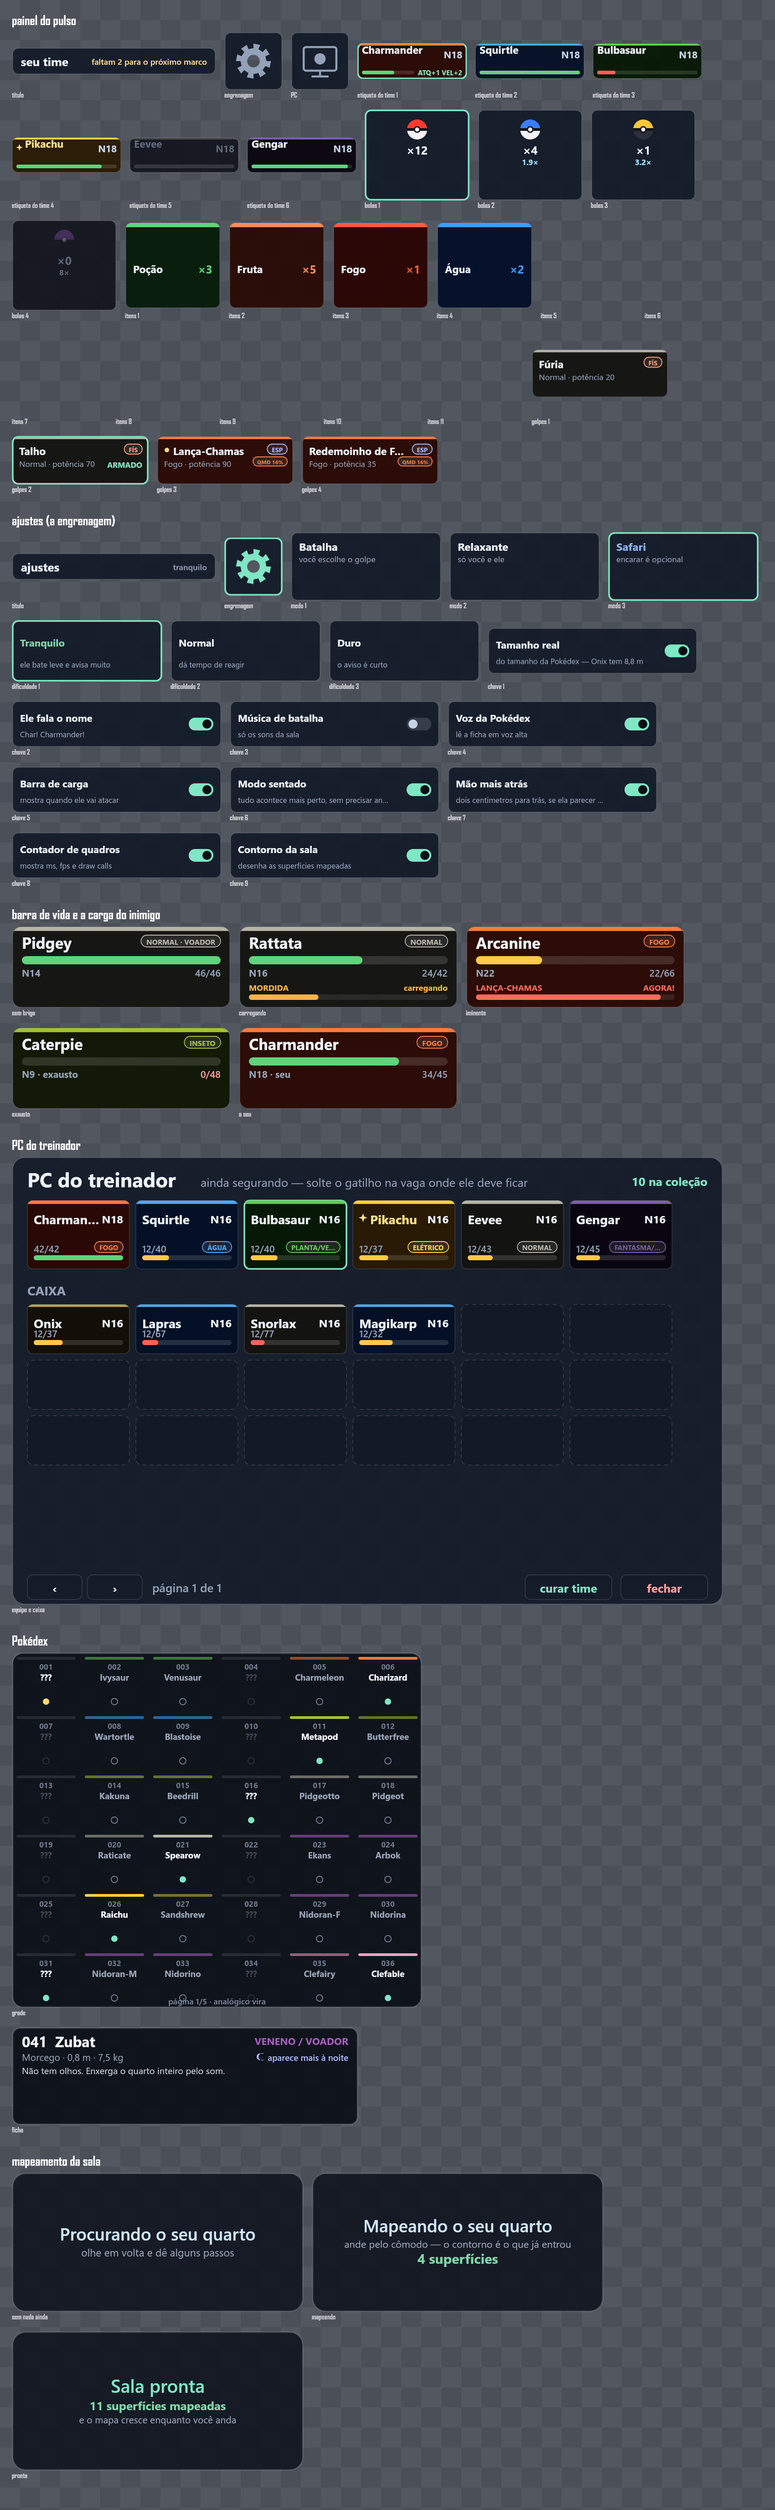
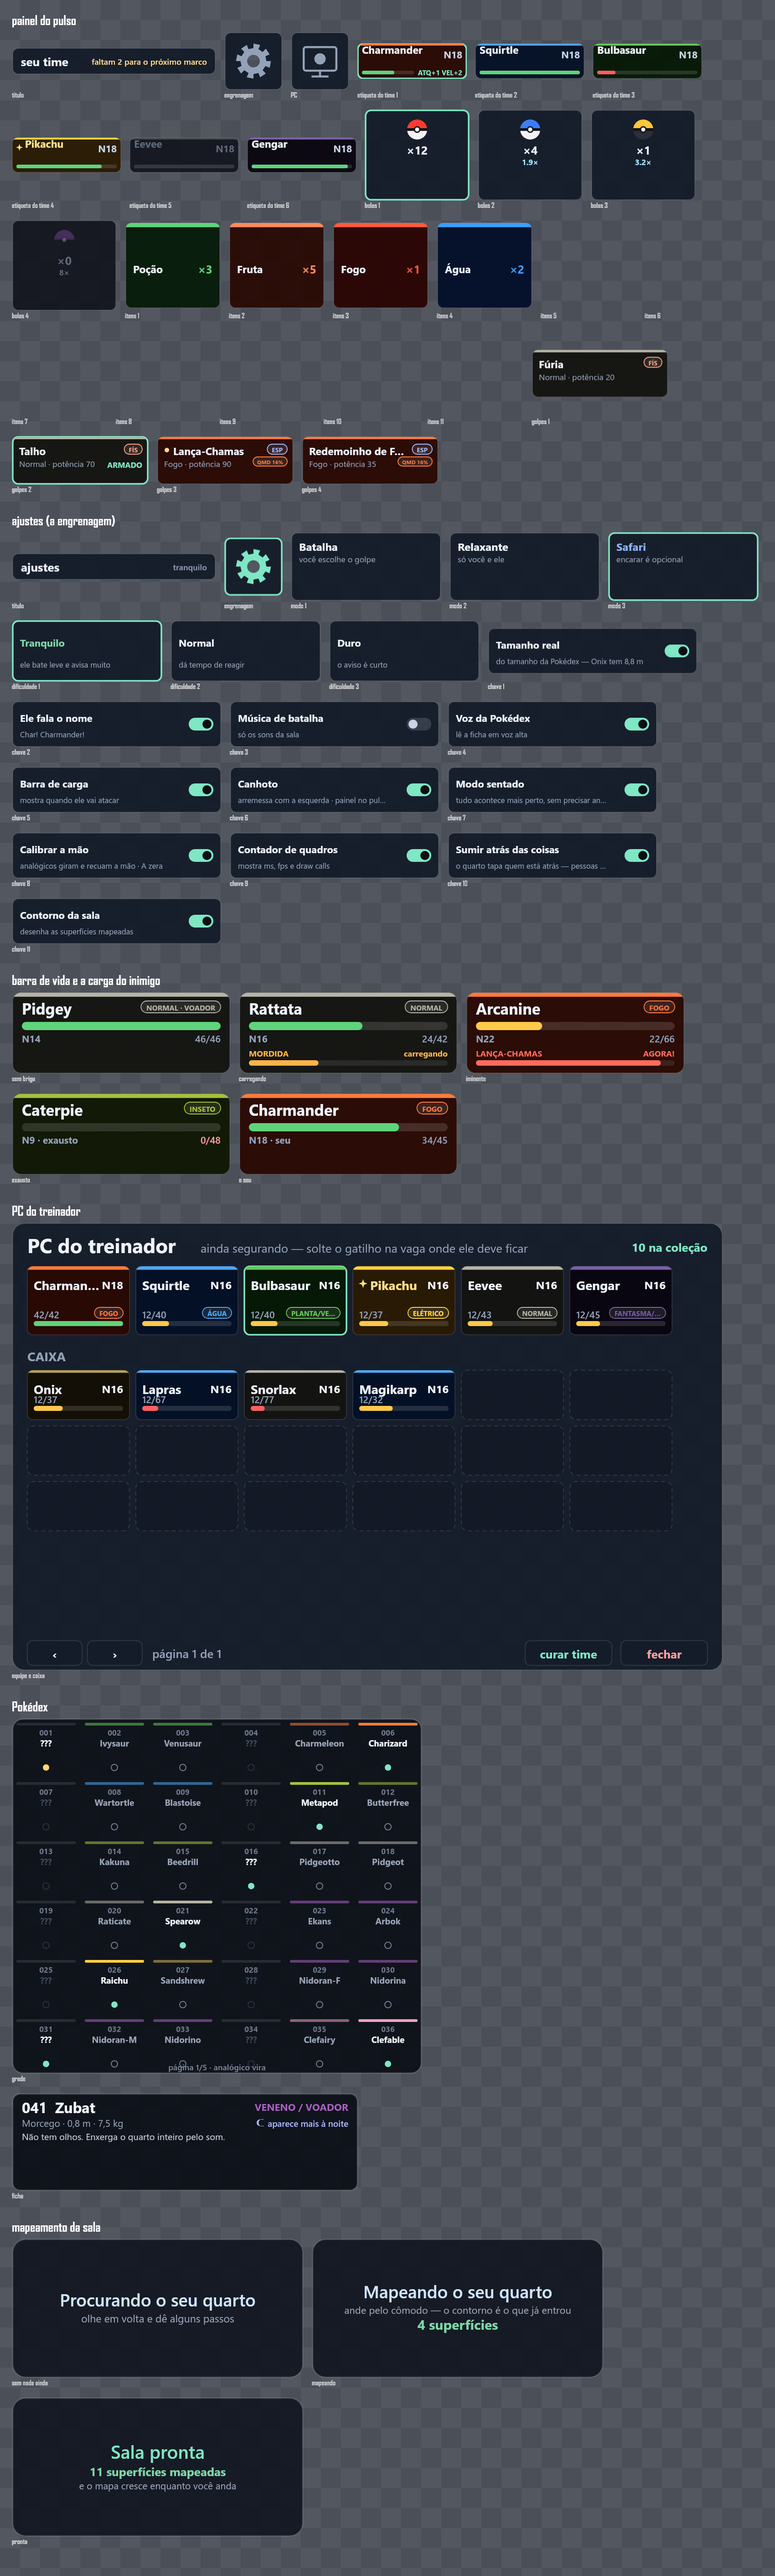
Canhoto: o que troca é o papel de cada mão, não os botões
Item 1.4 do roteiro. Quarto ciclo do loop.

O jogo nasceu destro sem nunca ter decidido isso. Catorze lugares cravavam o
lado: o painel do time abria no pulso esquerdo, o raio de mira saía da direita,
o analógico direito trocava a bola, A e B (direita) recolhiam e abriam a
mochila, X e Y (esquerda) chamavam e ligavam o PC, a pergunta da evolução era
da direita e até o zerar da calibração. Nada disso é escolha de projeto — é o
que sai quando quem escreve é destro.

Interruptor "Canhoto" na engrenagem, e dois getters — `ladoQueAponta` e
`ladoDoPainel` — no lugar dos catorze.

O que NÃO troca são os botões FÍSICOS, e não podia ser diferente: o controle
direito continua na mão direita de um canhoto. O que troca é o papel. A mão que
aponta leva o arremesso, o recolher, a mochila, o raio, o analógico da bola e a
escolha no painel; a outra leva o painel do pulso, o mostrador, o chamar e o PC.

O cinto não precisou saber de nada disto: ele já era simétrico desde 18/09 — um
em cada antebraço, e quem pega é sempre a mão oposta. O mesmo vale para o gesto
das duas palmas e para a Pokédex, que se pega com qualquer mão.

Seção 36 do smoke: a simetria do gesto que abre o painel, que é onde isto podia
quebrar em silêncio. O dorso do punho é −X na esquerda e +X na direita, então a
mesma pose espelhada tem de abrir o painel do outro pulso — e NÃO abrir o do
lado errado, senão o parâmetro seria decorativo e o painel abriria nos dois.

diff --git a/src/game.ts b/src/game.ts
@@ -1369,6 +1369,26 @@ export class Jogo {
   // --------------------------------------------------- o que está na mão
 
   /** Ela está segurando alguma coisa — uma bola ou um item. */
+  /**
+   * A mão que APONTA: a que arremessa, recolhe, escolhe no painel e mira.
+   *
+   * O jogo nasceu destro sem nunca ter decidido isso — o painel abria no pulso
+   * esquerdo, o raio saía da direita, o analógico direito trocava a bola. Agora
+   * é uma pergunta, e a resposta mora na engrenagem.
+   *
+   * Os botões FÍSICOS não trocam de lugar, e não podiam: o controle direito
+   * continua na mão direita de um canhoto. O que troca é o papel — quem aponta
+   * ganha o recolher e a mochila, quem carrega o painel ganha o chamar e o PC.
+   */
+  private get ladoQueAponta(): 'left' | 'right' {
+    return this.ajustes.canhoto ? 'left' : 'right';
+  }
+
+  /** A outra: a que carrega o painel do pulso e o mostrador. */
+  private get ladoDoPainel(): 'left' | 'right' {
+    return this.ajustes.canhoto ? 'right' : 'left';
+  }
+
   private maoCheia(mao: Mao): boolean {
     // O bicho no colo conta. Sem ele nesta conta, os berços do cinto acendiam
     // embaixo de uma mão que está abraçando um Pokémon, prometendo um grip que
@@ -4011,12 +4031,14 @@ export class Jogo {
       // sairia do braço.
       if (!this.slotSobAMao(mao)) this.saiuDoCinto.add(mao.indice);
       const raio = this.raios.get(mao.indice);
-      if (raio) raio.atualizar(dt, mao.lado === 'right', 0.9);
+      if (raio) raio.atualizar(dt, mao.lado === this.ladoQueAponta, 0.9);
     }
 
-    const direita = this.maos.find((m) => m.lado === 'right' && m.conectada);
+    // A escolha do inicial se aponta com a mão que aponta — e com qualquer uma
+    // que esteja conectada, se ela ainda não apareceu.
+    const queAponta = this.maos.find((m) => m.lado === this.ladoQueAponta && m.conectada);
     const qualquer = this.maos.find((m) => m.conectada);
-    const mira = (direita ?? qualquer)?.mira() ?? null;
+    const mira = (queAponta ?? qualquer)?.mira() ?? null;
     this.escolha.atualizar(dt, mira, this.camera);
   }
 
@@ -4183,7 +4205,7 @@ export class Jogo {
   private botoesDaMao(mao: Mao) {
     // A pergunta da evolução toma A e B enquanto estiver na tela: ela é modal
     // de propósito, e é curta.
-    if (this.evolucaoPendente && mao.lado === 'right') {
+    if (this.evolucaoPendente && mao.lado === this.ladoQueAponta) {
       if (mao.apertou(BOTAO_A)) {
         this.permitirEvolucao();
         return;
@@ -4194,7 +4216,8 @@ export class Jogo {
       }
     }
 
-    if (mao.lado === 'right') {
+    // A mão que aponta recolhe e abre a mochila; a outra chama e liga o PC.
+    if (mao.lado === this.ladoQueAponta) {
       if (mao.apertou(BOTAO_A)) this.recolherApontando(mao);
       // B fecha o PC quando ele está aberto, e abre a mochila quando não está.
       // O botão já era o "fechar isto" da mão direita; a mochila entra no mesmo
@@ -4212,7 +4235,7 @@ export class Jogo {
       return;
     }
 
-    if (mao.lado === 'left') {
+    if (mao.lado === this.ladoDoPainel) {
       if (mao.apertou(BOTAO_B)) this.alternarPc();
       if (mao.apertou(BOTAO_A)) this.chamarParaPerto(mao);
     }
@@ -4679,7 +4702,7 @@ export class Jogo {
    * única coisa que ela precisa estar olhando.
    */
   private calibrarComOAnalogico(mao: Mao, dt: number) {
-    if (mao.apertou(BOTAO_A) && mao.lado === 'right') {
+    if (mao.apertou(BOTAO_A) && mao.lado === this.ladoQueAponta) {
       this.ajustes.zerarMao();
       mao.sentir('recusado');
       audio.clique();
@@ -4760,7 +4783,7 @@ export class Jogo {
       // O raio de mira aparece na mão livre quando há um painel aberto.
       const raio = this.raios.get(mao.indice);
       if (raio) {
-        const apontandoTime = this.painelTime.aberto && mao.lado === 'right';
+        const apontandoTime = this.painelTime.aberto && mao.lado === this.ladoQueAponta;
         // Na Pokédex quem aponta é a mão LIVRE: a outra está segurando o tablet,
         // e qual delas é isso muda conforme com qual você o pegou.
         const apontandoDex = this.painelDex.aberto && this.tablet.naMaoDe !== mao.indice;
@@ -4778,10 +4801,10 @@ export class Jogo {
       if (this.ajustes.calibrarMao) {
         this.calibrarComOAnalogico(mao, dt);
       }
-      // Analógico da direita: vira página da Pokédex quando ela está aberta, e
-      // troca de bola quando não está. Um passo por inclinada — só volta a valer
-      // depois que o stick passa pelo centro.
-      else if (mao.lado === 'right') {
+      // O analógico da mão que APONTA: vira página da Pokédex quando ela está
+      // aberta, e troca de bola quando não está. Um passo por inclinada — só
+      // volta a valer depois que o stick passa pelo centro.
+      else if (mao.lado === this.ladoQueAponta) {
         const x = mao.analogicoX();
         if (this.analogicoNeutro && Math.abs(x) > 0.7) {
           this.analogicoNeutro = false;
@@ -4832,6 +4855,13 @@ export class Jogo {
   }
 
   private atualizarPaineis(dt: number) {
+    // Por PAPEL, e não por lado: `doPainel` carrega o painel do pulso e o
+    // mostrador, `queAponta` mira e alcança as cartas. Num canhoto os dois
+    // trocam de braço. Ver `ladoQueAponta`.
+    const doPainel = this.maos.find((m) => m.lado === this.ladoDoPainel && m.conectada);
+    const queAponta = this.maos.find((m) => m.lado === this.ladoQueAponta && m.conectada);
+    // Os cintos continuam falando em esquerda e direita: eles são simétricos de
+    // verdade — um em cada antebraço, e quem pega é sempre a mão oposta.
     const esquerda = this.maos.find((m) => m.lado === 'left' && m.conectada);
     const direita = this.maos.find((m) => m.lado === 'right' && m.conectada);
 
@@ -4926,13 +4956,14 @@ export class Jogo {
     // A mão cheia também não teria o que fazer com o painel: quem alcança as
     // cartas é a mão OPOSTA, e a que carrega o painel não chega no próprio
     // antebraço (é a mesma razão de haver um cinto em cada braço).
-    const esquerdaLivre = esquerda && !this.maoCheia(esquerda) ? esquerda : null;
+    const maoDoPainelLivre = doPainel && !this.maoCheia(doPainel) ? doPainel : null;
 
     const estavaAberto = this.painelTime.aberto;
     this.painelTime.atualizar(
       dt,
-      esquerdaLivre?.pulso ?? null,
-      direita ? direita.mira() : null,
+      maoDoPainelLivre?.pulso ?? null,
+      this.ladoDoPainel,
+      queAponta ? queAponta.mira() : null,
       this.dex.bolaAtiva,
       this.camera,
       {
@@ -4943,14 +4974,14 @@ export class Jogo {
       // A mão direita acende a carta que ela está tocando, antes da mira. É o
       // que torna "vá lá e pegue" um gesto de verdade: a carta certa acende
       // enquanto o braço chega, e o GRIP pega aquela mesma.
-      direita ? this.pontoDoDedo(direita) : null,
+      queAponta ? this.pontoDoDedo(queAponta) : null,
       Jogo.ALCANCE_PAINEL,
     );
     // E a mão que está chegando SENTE a carta chegando — só pela proximidade,
     // nunca pelo raio de mira. Ver src/toque.ts.
-    if (direita && this.painelTime.aberto) {
+    if (queAponta && this.painelTime.aberto) {
       const forca = this.painelTime.forcaDoToque(Jogo.ALCANCE_PAINEL);
-      if (forca > 0) direita.rocar(forca);
+      if (forca > 0) queAponta.rocar(forca);
     }
     // O mostrador pequeno acompanha o mesmo pulso, em pé — e se apaga quando o
     // painel grande abre: os dois no mesmo braço, ao mesmo tempo, era o
@@ -4958,10 +4989,10 @@ export class Jogo {
     // O mostrador some junto quando a mão esquerda está com um Pokémon: ele
     // flutua seis centímetros acima do punho, que é exatamente dentro do bicho
     // que você está segurando.
-    const maoOcupadaPorBicho = esquerda !== undefined && this.colo.tem(esquerda.indice);
+    const maoOcupadaPorBicho = doPainel !== undefined && this.colo.tem(doPainel.indice);
     this.painelPulso.posicionar(
       dt,
-      esquerda?.pulso ?? null,
+      doPainel?.pulso ?? null,
       this.camera,
       !this.painelTime.aberto && !maoOcupadaPorBicho,
     );

diff --git a/tools/smoke.ts b/tools/smoke.ts
@@ -3301,6 +3301,69 @@ console.log('\n35. a mochila e o bicho abraçado, no mesmo lugar');
   );
 }
 
+
+// --- 36. canhoto: o gesto do relógio é simétrico ---
+//
+// O painel do pulso passou a morar na mão NÃO dominante, que num canhoto é a
+// direita. Isso só funciona se o gesto que o abre for simétrico de verdade — e
+// ele depende do lado, porque o dorso do punho é −X na esquerda e +X na direita
+// (ver `dorsoLocal` em src/gesto.ts).
+//
+// O que se afirma aqui: a mesma pose ESPELHADA dispara o gesto do outro lado, e
+// não dispara o do lado errado. Se o espelhamento quebrar, o canhoto gira o
+// pulso e nada acontece — sem nenhuma mensagem, como todo gesto que falha.
+console.log('\n36. canhoto: o gesto do relógio espelhado');
+{
+  const camera = new THREE.PerspectiveCamera();
+  camera.position.set(0, 1.6, 0);
+  camera.updateMatrixWorld(true);
+
+  /**
+   * Um punho na pose de ler as horas, para um dado lado.
+   *
+   * O dorso (−X local na esquerda, +X na direita) tem de encarar o rosto. Monta
+   * a base a partir disso, e o resto é consequência.
+   */
+  const punhoLendoAsHoras = (lado: 'left' | 'right') => {
+    const posicao = new THREE.Vector3(lado === 'left' ? -0.15 : 0.15, 1.3, -0.3);
+    const paraORosto = new THREE.Vector3().subVectors(camera.position, posicao).normalize();
+    // O dorso local vira o mundo: na esquerda ele é −X, então +X tem de apontar
+    // para o LADO OPOSTO ao rosto.
+    const eixoX = lado === 'left' ? paraORosto.clone().negate() : paraORosto.clone();
+    const auxiliar =
+      Math.abs(eixoX.y) > 0.9 ? new THREE.Vector3(1, 0, 0) : new THREE.Vector3(0, 1, 0);
+    const eixoZ = new THREE.Vector3().crossVectors(eixoX, auxiliar).normalize();
+    const eixoY = new THREE.Vector3().crossVectors(eixoZ, eixoX).normalize();
+    const no = new THREE.Object3D();
+    no.position.copy(posicao);
+    no.quaternion.setFromRotationMatrix(new THREE.Matrix4().makeBasis(eixoX, eixoY, eixoZ));
+    no.updateMatrixWorld(true);
+    return no;
+  };
+
+  const canhoto = punhoLendoAsHoras('right');
+  const destro = punhoLendoAsHoras('left');
+
+  checar(olhandoORelogio(destro, 'left', camera, false), 'o destro não abre o painel');
+  checar(
+    olhandoORelogio(canhoto, 'right', camera, false),
+    'o CANHOTO não abre o painel girando o pulso direito — o gesto não é simétrico',
+  );
+
+  // E o lado importa: a pose de um não serve para o outro. Se servisse, o
+  // parâmetro seria decorativo e o painel abriria nos dois pulsos.
+  checar(
+    !olhandoORelogio(destro, 'right', camera, false),
+    'a pose da esquerda abre o painel da direita — o lado do dorso virou enfeite',
+  );
+  checar(
+    !olhandoORelogio(canhoto, 'left', camera, false),
+    'a pose da direita abre o painel da esquerda',
+  );
+
+  console.log('   canhoto: a mesma pose, espelhada, abre o painel do outro pulso');
+}
+
   console.log(
     `   ${PEDRAS.length} pedras, ${pares} evoluções · ` +
       `${EVOLUI_SO_COM_PEDRA.size} espécies saíram da evolução por nível`,

diff --git a/src/ajustes.ts b/src/ajustes.ts
@@ -69,6 +69,7 @@ export type ChaveAjuste =
   | 'vozDoNome'
   | 'musicaDeBatalha'
   | 'contadorDeQuadros'
+  | 'canhoto'
   | 'calibrarMao'
   | 'oclusaoDoQuarto'
   | 'modoSentado';
@@ -110,6 +111,12 @@ export const INTERRUPTORES: readonly Interruptor[] = [
     nome: 'Barra de carga',
     ligadoDiz: 'mostra quando ele vai atacar',
     desligadoDiz: 'sem contagem no inimigo',
+  },
+  {
+    id: 'canhoto',
+    nome: 'Canhoto',
+    ligadoDiz: 'arremessa com a esquerda · painel no pulso direito',
+    desligadoDiz: 'arremessa com a direita · painel no pulso esquerdo',
   },
   {
     id: 'modoSentado',
@@ -180,6 +187,23 @@ export class Ajustes {
    * coisa.
    */
   contadorDeQuadros = false;
+  /**
+   * Qual mão é a que aponta, arremessa e escolhe.
+   *
+   * O jogo nasceu destro sem nunca ter decidido isso: o painel do time abria no
+   * pulso ESQUERDO, o raio de mira saía da direita, o analógico direito trocava
+   * a bola e os botões de apontar-e-recolher eram os da direita. Nada disso é
+   * uma escolha de projeto — é o que sai quando quem escreve é destro.
+   *
+   * Um canhoto segura os MESMOS controles (o controle direito continua na mão
+   * direita), então o que troca não são os botões físicos: é o PAPEL de cada
+   * mão. A dominante aponta, arremessa e recolhe; a outra carrega o painel e
+   * chama o companheiro. Ver `ladoQueAponta` em src/game.ts.
+   *
+   * O cinto já era simétrico desde 18/09 — um em cada antebraço, e quem pega é
+   * sempre a mão oposta —, então ele não precisa saber de nada disto.
+   */
+  canhoto = false;
   /**
    * O modo de calibração da mão, ligado na engrenagem.
    *
@@ -339,6 +363,7 @@ export class Ajustes {
       if (typeof dados.maoRecuo === 'number') this.maoRecuo = dados.maoRecuo;
       // `calibrarMao` NÃO é lido de volta: é um modo de trabalho, e voltar de
       // uma sessão com os analógicos sequestrados seria uma surpresa.
+      if (typeof dados.canhoto === 'boolean') this.canhoto = dados.canhoto;
       if (typeof dados.oclusaoDoQuarto === 'boolean') this.oclusaoDoQuarto = dados.oclusaoDoQuarto;
       if (typeof dados.modoSentado === 'boolean') this.modoSentado = dados.modoSentado;
     } catch {
@@ -364,6 +389,7 @@ export class Ajustes {
           maoGiroY: this.maoGiroY,
           maoGiroZ: this.maoGiroZ,
           maoRecuo: this.maoRecuo,
+          canhoto: this.canhoto,
           oclusaoDoQuarto: this.oclusaoDoQuarto,
           modoSentado: this.modoSentado,
         }),

diff --git a/src/menu.ts b/src/menu.ts
@@ -1126,6 +1126,7 @@ export class PainelTime {
   atualizar(
     dt: number,
     punhoEsquerdo: THREE.Object3D | null,
+    lado: 'left' | 'right',
     mira: { origem: THREE.Vector3; direcao: THREE.Vector3 } | null,
     bolaAtivaId: string,
     camera: THREE.Camera,
@@ -1139,7 +1140,9 @@ export class PainelTime {
     pontoDaMao: THREE.Vector3 | null = null,
     alcanceDaMao = 0.09,
   ) {
-    const querAbrir = olhandoORelogio(punhoEsquerdo, 'left', camera, this.aberto);
+    // O lado vem de fora: o painel mora no pulso NÃO dominante, e qual é esse
+    // depende de quem está jogando. Ver `canhoto` em src/ajustes.ts.
+    const querAbrir = olhandoORelogio(punhoEsquerdo, lado, camera, this.aberto);
     this.aberto = querAbrir;
 
     this.abertura += ((querAbrir ? 1 : 0) - this.abertura) * Math.min(1, dt * 10);

diff --git a/PROXIMOS-PASSOS.md b/PROXIMOS-PASSOS.md
@@ -155,16 +155,31 @@ aí a ordem passa a ser preferência em vez de necessidade.
 - **Como saber que funcionou:** com o bicho no colo e a mochila aberta, fechar a
   mão não troca o bicho por uma poção.
 
-### 1.4 Canhoto
+### 1.4 ✅ Canhoto (feito em 19/09)
 
 O jogo assume destro em lugares fixos: o painel do time abre no pulso ESQUERDO,
 a Pokédex fica no direito, o analógico direito troca a bola. Nada disso tem
 interruptor.
 
-- **Esforço:** médio. O correto é um `ladoDominante` nos ajustes e trocar os
-  lados fixos por consultas a ele.
-- **Como saber que funcionou:** alguém canhoto joga uma sessão sem reclamar da
-  mão errada.
+**Feito.** Interruptor **Canhoto** na engrenagem, e dois getters no jogo —
+`ladoQueAponta` e `ladoDoPainel` — no lugar de catorze lados cravados.
+
+O que NÃO troca são os botões físicos, e não podia ser diferente: o controle
+direito continua na mão direita de um canhoto. O que troca é o PAPEL. A mão que
+aponta ganha o arremesso, o recolher (A), a mochila (B), o raio de mira, o
+analógico que troca a bola e a escolha no painel; a outra ganha o painel do
+pulso, o mostrador, o chamar e o PC.
+
+O cinto não precisou saber de nada: ele já era simétrico desde 18/09 — um em
+cada antebraço, e quem pega é sempre a mão oposta.
+
+A seção 36 do smoke afirma a simetria do gesto que abre o painel, que é onde o
+espelhamento podia quebrar em silêncio: o dorso do punho é −X na esquerda e +X
+na direita, e a mesma pose espelhada tem de abrir o painel do outro pulso — e
+não abrir o do lado errado.
+
+- **Como saber que funcionou:** ligue Canhoto na engrenagem. O painel passa a
+  abrir girando o pulso DIREITO, e o raio de mira sai da esquerda.
 
 ### 1.5 Braço no ar cansa (e o jogo não sabe disso)
 

diff --git a/README.md b/README.md
@@ -87,7 +87,7 @@ sem pôr o headset a cada mudança:
 | Recolher para a bola | apontar para ele e apertar **A** |
 | Chamar de volta (desfaz o "fica aí") | **X** |
 | Ligar o PC (equipe e caixa) | **Y**, ou o ícone de monitor no painel do pulso |
-| Time, bolas, itens e os quatro golpes | girar o **pulso esquerdo**, como para ver as horas |
+| Time, bolas, itens e os quatro golpes | girar o **pulso esquerdo**, como para ver as horas (o **direito**, com Canhoto ligado) |
 | Modo de jogo, dificuldade e opções | a **engrenagem**, no canto do painel do pulso |
 | Ouvir a ficha da Pokédex | **GATILHO** com a Pokédex na mão |
 | Escolher / recolher / usar item | apontar com a outra mão e puxar o **GATILHO** |
